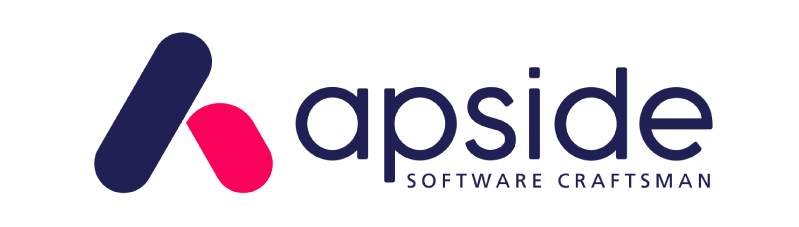
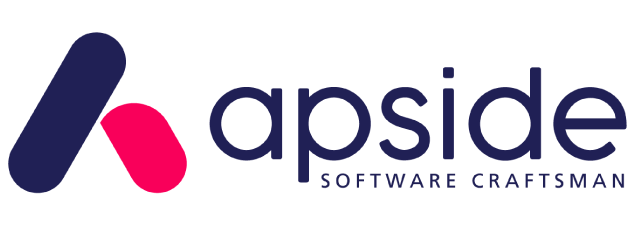
se corrige imagen, se avanza diseño 2.0 se acutaliza .env

Changed region(s): [[0.0, 0.1233, 0.9843, 0.8634]]

diff --git a/src/views/DailyApsideV2.vue b/src/views/DailyApsideV2.vue
@@ -1,0 +1,177 @@
+<template>
+  <v-container class="mt-5" style="max-width: 1200px !important">
+    <v-row>
+      <v-col cols="4" class="text-left">
+        <v-img
+          src="@/assets/images/apside.png"
+          style="max-width: 250px"
+        ></v-img>
+      </v-col>
+      <v-col cols="4" class="text-center">
+        <v-btn dark class="apside-btn">
+          <v-icon class="mr-2">mdi-circle</v-icon>
+          Archivados
+        </v-btn>
+      </v-col>
+      <v-col cols="4" class="text-right">
+        <span class="apside-color text-h5 font-weight-bold">
+          <span class="mr-3">Marcelo Pavis</span>
+          <v-avatar size="70">
+            <v-img :src="apsiders_base_url + '/dramirez-apside.jpg'"></v-img>
+          </v-avatar>
+        </span>
+      </v-col>
+    </v-row>
+    <v-row>
+      <v-col cols="12">
+        <span class="apside-color text-h4 font-weight-bold"
+          >Daily {{ moment().format("DD/MM/YYYY") }}
+        </span>
+      </v-col>
+    </v-row>
+    <v-row>
+      <v-col cols="3" class="pa-3 my-8">
+        <div class="img-wrap">
+          <div
+            class="daily-image"
+            :style="
+              'background: url(' + apsiders_base_url + '/dramirez-apside.jpg)'
+            "
+          ></div>
+          <div class="img-description-container">
+            <span class="img-description font-weight-bold text-h6"
+              >Diego Ramirez</span
+            >
+          </div>
+        </div>
+      </v-col>
+      <v-col cols="3" class="pa-3 my-8">
+        <div class="img-wrap" id="daily-image-1" @click="updateAssist(1, 'Diego Ramirez')">
+          <div
+            class="daily-image"
+            :style="
+              'background: url(' + apsiders_base_url + '/dramirez-apside.jpg)'
+            "
+          ></div>
+          <div class="inner-circle"></div>
+          <div class="img-description-container">
+            <span class="img-description font-weight-bold text-h6"
+                id="daily-name-1"
+              >Diego Ramirez</span
+            >
+          </div>
+        </div>
+      </v-col>
+    </v-row>
+  </v-container>
+</template>
+
+<script>
+export default {
+  name: "DailyApsideV2",
+  data() {
+    return {
+      apsiders_base_url: process.env.VUE_APP_APSIDERS,
+    };
+  },
+  methods: {
+    updateAssist: function (id, name) {
+      console.log("updateAssist");
+
+      let dailyImage = document.getElementById("daily-image-" + id);
+      let dailyName = document.getElementById("daily-name-" + id); 
+
+      let state; // state indica si la persona se debe marcar como presente o ausente
+      if (dailyImage.classList.contains("img-active")) {
+          dailyImage.classList.remove("img-active");
+          state = 0;
+        dailyName.innerHTML = name;
+        } else {
+          dailyImage.classList.add("img-active");
+          state = 1;
+          dailyName.innerHTML = '<span style="font-size:2.8rem; transition: 0.1s all ease-in" class="mdi mdi-check-bold"></span>'
+      }
+    },
+  },
+};
+</script>
+
+<style>
+.apside-btn {
+  background: #201751 !important;
+}
+
+.apside-color {
+  color: #201751 !important;
+}
+
+.img-wrap {
+  position: relative;
+  height: 190px;
+  width: 190px;
+}
+
+.img-description-container {
+  position: absolute;
+  top: 0;
+  bottom: 0;
+  left: 0;
+  right: 0;
+  background: #17085ab9;
+  color: #fff;
+  visibility: hidden;
+  opacity: 0;
+  display: flex;
+  align-items: center;
+  justify-content: center;
+  border-radius: 50%;
+
+  transition: opacity 0.2s, visibility 0.2s;
+}
+
+.daily-image {
+  width: 100%;
+  height: 100%;
+  background-size: cover !important;
+  background-position: center !important;
+  background-repeat: no-repeat !important;
+  transition: all 0.1s ease-in-out;
+  border-radius: 50%;
+}
+
+.img-wrap:hover .img-description-container {
+  visibility: visible;
+  opacity: 1;
+}
+
+.img-description {
+  transition: 0.2s;
+}
+
+
+.inner-circle {
+    opacity: 0;
+}
+
+.img-active .img-description-container {
+  visibility: visible !important;
+  opacity: 1 !important;
+}
+
+.img-active .inner-circle {
+    position: absolute;
+    width: 170px; height: 170px;
+    border-radius: 50%;
+    top: 9px;
+    left: 9px;
+    border: 2px solid #84db81;
+    opacity: 1;
+    z-index: 2;
+
+    transition: all 0.2s ease-in-out;
+}
+
+.img-active .img-description {
+  color: #84db81 !important;
+}
+</style>

diff --git a/src/router/index.js b/src/router/index.js
@@ -2,6 +2,7 @@ import Vue from 'vue'
 import store from '../store'
 import VueRouter from 'vue-router'
 import DailyApside from '../views/DailyApside.vue'
+import DailyApside2 from '../views/DailyApsideV2.vue'
 import PageNotFound from '../views/PageNotFound.vue'
 import AdmLogin from '../views/adm/Login.vue'
 import AdmApsiders from '../views/adm/AdmApsiders.vue'
@@ -15,6 +16,11 @@ const routes = [
     path: '/',
     name: 'DailyApside',
     component: DailyApside
+  },
+  {
+    path: '/testasdasd',
+    name: 'Test',
+    component: DailyApside2
   },
   {
     path: '/adm/login',
